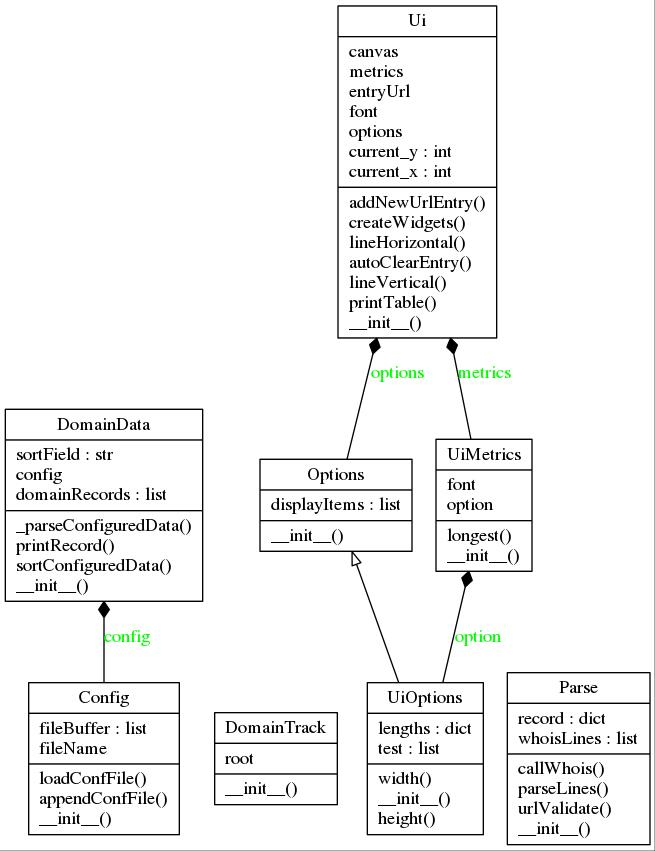
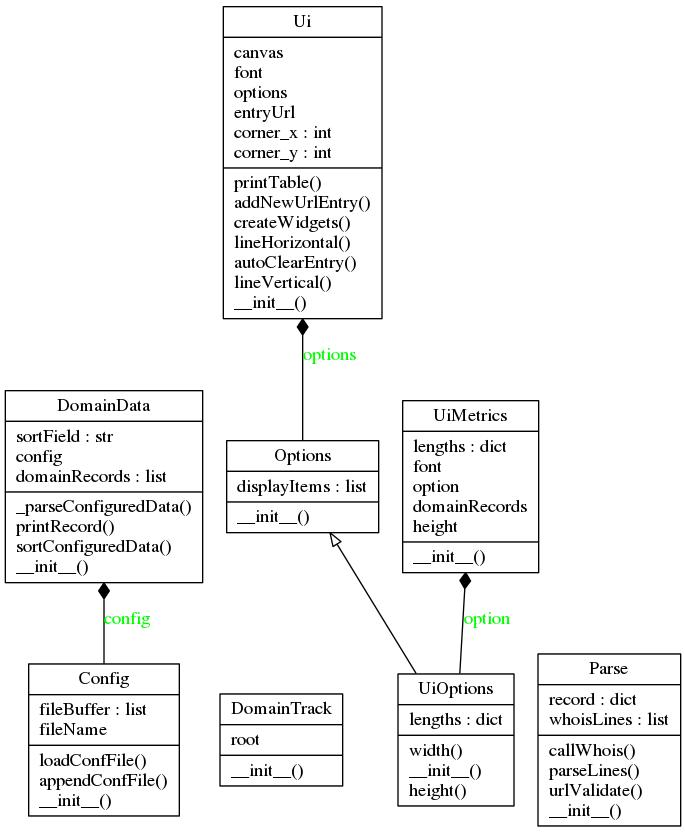
Some reformatting of data table.

Changed region(s): [[0.0, 0.0, 1.0, 1.0], [0.3053, 0.8125, 0.5191, 0.9688], [0.4275, 0.0, 0.458, 0.0312]]

diff --git a/src/ui.py b/src/ui.py
@@ -17,24 +17,39 @@ class Ui(tkinter.Frame):
     '''
     classdocs
     '''
-
-    def __init__(self, master=None):
-        self.current_x = 10
-        self.current_y = 10
     
+    ''' 
+    class (static) attributes for position of top left corner of table 
+    '''
+    corner_x = 10
+    corner_y = 10
+
+    def __init__(self, records, master=None):
+        
+        # data items to display
+        self.options = src.options.Options()
+        self.records = records
+        
+        # get default tkfont and will be used it to measure line lengths
+        self.font    = tkinter.font.Font()
+        
+        self.metrics = src.uiMetrics.UiMetrics( self.records, self.font )
+        
+        self.current_x = self.corner_x
+        self.current_y = self.corner_y
+        self.gutter  = self.font.measure(" | ")
+        
         tkinter.Frame.__init__(self, master)
         self.createWidgets(master)
         self.pack()
         
-        # data items to display
-        self.options = src.options.Options()
-        
-        # get default tkfont and will be used it to measure line lengths
-        self.font    = tkinter.font.Font()
-        self.metrics = src.uiMetrics.UiMetrics( self.font )
-        
     def createWidgets(self, master=None):
-        self.canvas = tkinter.Canvas(master, width = 800, height =600 )
+        self.canvas = tkinter.Canvas(
+                                     master, 
+                                     width = 1200, 
+                                     height = 600,
+                                     
+                                      )
         self.canvas.pack()
 
         self.entryUrl = tkinter.Entry(master, background = 'white', width = 50)
@@ -48,14 +63,29 @@ class Ui(tkinter.Frame):
     # TODO pass canvas in as param
     def lineVertical(self, x, orig_y, distal_y):
         self.canvas.create_line(x, orig_y, x, distal_y)
+        
+    def lengthOfHeader(self):
+        lengthOfHeader = 0
+        
+        for l in self.metrics.lengths:
+            lengthOfHeader += self.metrics.lengths[l] + self.gutter
+        lengthOfHeader -= self.gutter
+        
+        return lengthOfHeader
+    
+                
+    # special processing for individual options
+    def stripSpecial( self, field, text ):
+        if field == "Registrar Registration Expiration Date":
+            text = text.replace( "z", " " )
+            text = text.replace( "t", " " )
+            
+        return text
 
-    def printTable( self, records ):
+    def printTable( self ):
+        '''
         
-        # determine field sizes
-        longest = self.metrics.longest( records )
-        # determine total width
-        
-        # determine total height
+        '''
         
         # print header
         for heading in self.options.displayItems:
@@ -64,29 +94,56 @@ class Ui(tkinter.Frame):
                                     self.current_y, 
                                     anchor = 'nw', 
                                     state = 'normal', 
-                                    text = heading.title()
+                                    text = heading.title(),
+                                    font = self.font
                                     )
-            self.current_x += 180
+            self.current_x += self.metrics.lengths[heading]
+            self.current_x += self.gutter
             
-        # print separator
-        self.lineHorizontal(10, 190 * len( self.options.displayItems ), 
-                            (self.current_y + 15) 
+        self.current_x = self.corner_x    
+        
+        # print horizontal separator
+        self.lineHorizontal(
+                            self.current_x, 
+                            self.current_x + self.lengthOfHeader(), 
+                           (self.current_y + self.metrics.height) 
                            )
+        print(self.current_x, " ",
+                            self.current_x + self.lengthOfHeader(), " ",
+                           (self.current_y + self.metrics.height))
+        
+        for r in self.records:
+            # reset line beginning
+            self.current_x = self.corner_x
             
-        # print records
-        self.current_y += 20
-        for r in records:
-            self.current_x = 10
-            for key in self.options.displayItems:
+            # move down one line
+            self.current_y += self.metrics.height
+            
+            # print record
+            for field in self.options.displayItems:
+                textField = r.record[field].lower()
+                
+                # special processing for specific fields
+                textField = self.stripSpecial( field, textField )
+                
+                # print field
                 self.canvas.create_text(
                                     self.current_x, 
                                     self.current_y, 
                                     anchor = 'nw', 
                                     state = 'normal', 
-                                    text = r.record[key].lower()
+                                    text = textField,
+                                    font = self.font
                                     )
-                self.current_x += 180
-            self.current_y += 20
+                # move over by field width
+                self.current_x += self.metrics.lengths[field]
+                self.current_x += self.gutter
+                
+                # print vertical separator
+#                 self.lineVertical( self.current_x, 
+#                                    self.current_y, 
+#                                    self.current_y + self.metrics.height 
+#                                    )
     
     def autoClearEntry( self ):
         pass

diff --git a/src/uiMetrics.py b/src/uiMetrics.py
@@ -18,29 +18,31 @@ class UiMetrics():
         '''
         Constructor
         '''
-        print("enter constructor")
         # mapping of records by heading to longest length in pixels for current
         # set of records
         self.lengths = {}
         
         # access lengths of Options for table headings
-        self.font = tkinter.font.Font()
-        self.option = src.uiOptions.UiOptions( font )
+        self.font = font
+        self.option = src.uiOptions.UiOptions( self.font )
                 
         self.domainRecords = domainRecords
         
-        # initalize map (dict) keys - simplifies following nested clause
+        # initalize map (dict) keys - simplifies the following nested clause
         for option in self.option.displayItems:
-            self.lengths[option] = 0
+            self.lengths[option] = self.option.lengths[option]
         
         # find longest option items
         length = 0
         for option in self.option.displayItems:
             for i in range(0, len( self.domainRecords )):
-                length = self.font.measure(self.domainRecords[i].record[option])
+                length = self.font.measure(
+                                           self.domainRecords[i].record[option], 
+                                           self.font._root.focus_displayof()
+                                           )
                 if length > self.lengths[option]: self.lengths[option] = length
-                print( length )
-        print("exit constructor")
+        
+        self.height = self.option.height( self.font )
         
         
 if __name__ == "__main__":

diff --git a/src/options.py b/src/options.py
@@ -4,6 +4,62 @@ options.py - sets data display options for ui.py
 Created on May 3, 2014
 
 @author: nelsoncs
+Possible options:
+
+Domain Name
+Registry Domain ID  
+Registrar WHOIS Server
+Registrar URL
+Updated Date
+Creation Date
+Registrar Registration Expiration Date
+Registrar
+Registrar IANA ID
+Registrar Abuse Contact Email
+Registrar Abuse Contact Phone
+Reseller 
+Domain Status
+Registry Registrant ID 
+Registrant Name
+Registrant Organization
+Registrant Street
+Registrant City
+Registrant State/Province
+Registrant Postal Code
+Registrant Country
+Registrant Phone
+Registrant Phone Ext 
+Registrant Fax 
+Registrant Fax Ext 
+Registrant Email
+Registry Admin ID 
+Admin Name
+Admin Organization
+Admin Street 
+Admin City
+Admin State/Province
+Admin Postal Code
+Admin Country
+Admin Phone
+Admin Phone Ext 
+Admin Fax
+Admin Fax Ext 
+Admin Email 
+Registry Tech ID 
+Tech Name
+Tech Organization 
+Tech Street
+Tech City
+Tech State/Province
+Tech Postal Code
+Tech Country
+Tech Phone
+Tech Phone Ext 
+Tech Fax
+Tech Fax Ext 
+Tech Email
+Name Server ( Note: multiple nameservers possible )
+
 '''
 
 class Options():
@@ -25,4 +81,6 @@ class Options():
         
 if __name__ == "__main__":
     opt = Options()
+    
+    print( opt.displayItems )
 

diff --git a/src/domainData.py b/src/domainData.py
@@ -16,17 +16,14 @@ class DomainData():
     #
     domainRecords = []
 
-    def __init__( self ):
+    def __init__( self, file ):
+        self.configFile = file
         
         #TODO  tie to Options
-        self.sortField     = "Registrar Registration Expiration Date"
-    
-        #
-        #  constructor items
-        #
+        self.sortField = "Registrar Registration Expiration Date"
     
         # load the config file
-        self.config = src.config.Config( 'domain_track.conf' )
+        self.config = src.config.Config( self.configFile )
         
         # parse the config data
         self._parseConfiguredData( self.config )
@@ -44,7 +41,6 @@ class DomainData():
             
     def sortConfiguredData( self, sortKey ):
         self.domainRecords.sort( key = lambda ddl: ddl.record[sortKey] )
-        pass 
     
     # print only items found in options
     def printRecord( self, record ):
@@ -54,7 +50,7 @@ class DomainData():
             print( record[key] )
 
 if __name__ == '__main__':
-    dd = DomainData()
+    dd = DomainData("domain_track.conf")
     print("repr(DomainData):")
     repr(dd)
     str(dd)

diff --git a/src/parse.py b/src/parse.py
@@ -17,19 +17,17 @@ class Parse():
         self.whoisLines = self.callWhois( url )
         self.parseLines( self.whoisLines )
         
-    def parseLines( self, whoisLines ):
-        countLine = 1
-        
+    def parseLines( self, whoisLines ):       
         for element in whoisLines:
             if element.count( ': ' ) > 0:
                 splitElement = element.split( sep = ': ', maxsplit = 1 )
                 #print( splitElement )
                 #print( splitElement[0], "  : ", splitElement[1] )
-                self.record[splitElement[0]] = splitElement[1]
+                splitElement[1] = splitElement[1].rstrip("/")
+                self.record[splitElement[0]] = splitElement[1].strip()
             else:
                 #print( "Skipped line", countLine )
                 pass
-            countLine += 1
     
     # TODO why does this declare a local var and return a list instead of no return value        
     def callWhois( self, url ):

diff --git a/src/domain_track.py b/src/domain_track.py
@@ -20,16 +20,20 @@ import src.domainData
 
 class DomainTrack():
     
+    title      = "Domain Tracker - NcsAppSoft.com - 2014"
+    configFile = "domain_track.conf"
+    
     def __init__( self ):
         # setup tkinter window
         self.root = tkinter.Tk()
-        ui = src.ui.Ui( master=self.root )
-        self.root.title( "Domain Tracker - NcsAppSoft.com - 2014" )
+        self.root.title( self.title )
         
         # source whois data from urls in config file
-        dd = src.domainData.DomainData()
+        dd = src.domainData.DomainData( self.configFile )
         
-        ui.printTable( dd.domainRecords )
+        # instantiate user interface
+        ui = src.ui.Ui( dd.domainRecords, master=self.root )
+        ui.printTable()
         
         ui.mainloop()  
 

diff --git a/src/uiOptions.py b/src/uiOptions.py
@@ -46,12 +46,12 @@ if __name__ == "__main__":
     
     #f = tkinter.font.Font( family = 'TkTextFont', size = 42, weight = 'normal'  )
     f = tkinter.font.Font()
-    om = UiOptions( f )
+    uo = UiOptions( f )
     
-    for index in range( len(om.displayItems) ):
-        print( om.width( f, index ), ", ", om.height( f ) )
+    for index in range( len(uo.displayItems) ):
+        print( uo.width( f, index ), ", ", uo.height( f ) )
         
     print( "print lengths: " )
-    print( om.lengths )
+    print( uo.lengths )
     
     
